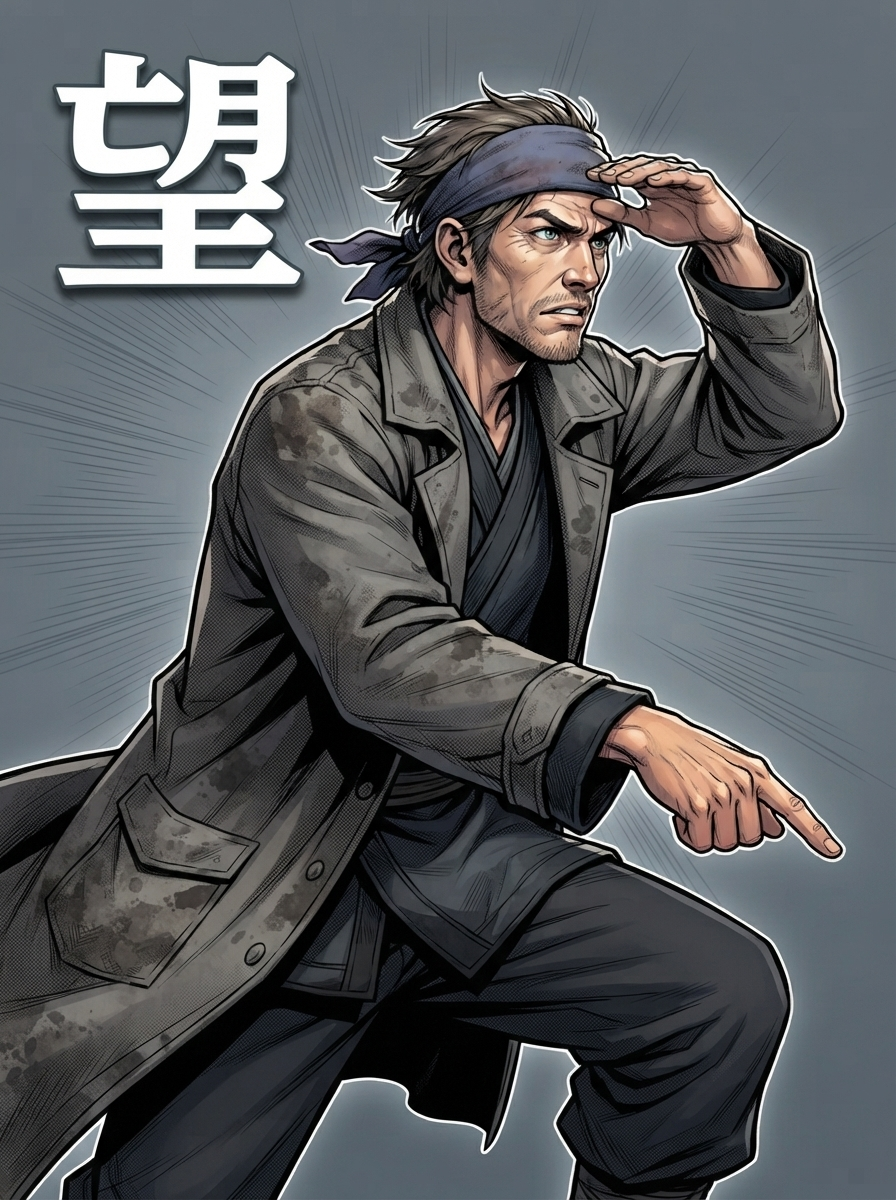
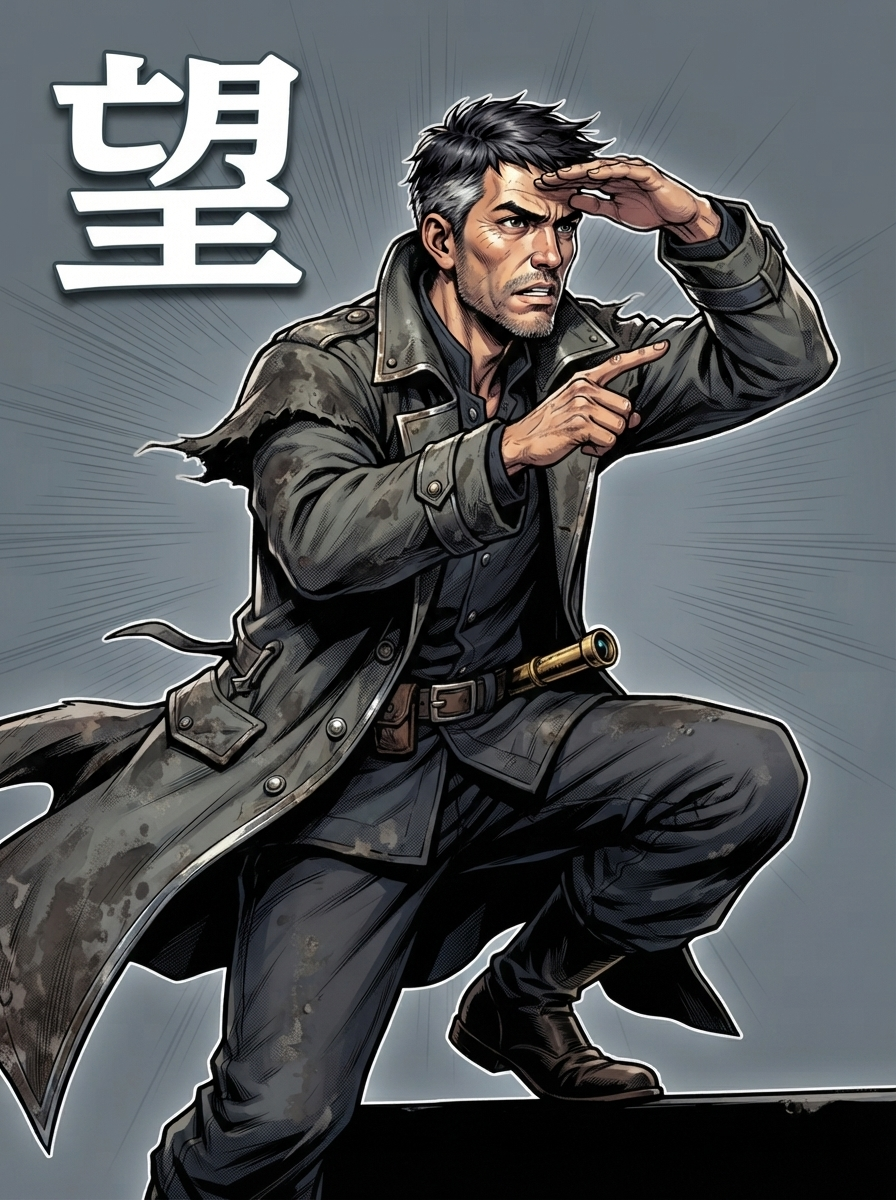
Retheme shi_lei and gu_chao tempest portraits
Align the blacksmith with sluice-welding on a cool iron palette, and
differentiate the dyke watchman from the fisherman (no headband, spyglass).

diff --git a/art/gen_portraits.py b/art/gen_portraits.py
@@ -161,12 +161,18 @@ knows an empty temple does not count.""",
     ),
     "shi_lei": dict(
         onom="砰", who="""\
-A powerfully built handsome Taiwanese blacksmith around forty — square jaw with short stubble, thick
-forearms, soot-smudged cheekbones, intense narrow eyes. Sparse with words; the village calls him 鐵雄.
-Heavy leather apron over a burnt-umber work shirt, dark iron-grey trim; a welding hammer or tongs in hand,
-ember highlights on metal.
-POSE: weight forward, one knee slightly bent as if bracing a gate, hammer raised mid-strike, other hand
-steadying an unseen sluice plate. EXPRESSION: grim focus — prayer will not hold a gate; steel will.""",
+A powerfully built handsome Taiwanese blacksmith around forty — square jaw with short dark stubble,
+thick forearms, soot-smudged cheekbones, intense narrow DARK eyes, SHORT BLACK hair (not brown, not dyed).
+Sparse with words; the village calls him 鐵雄.
+Heavy dark leather apron over a charcoal-umber work shirt (cool iron browns, NOT bright orange fabric);
+iron-grey trim. He is sealing a coastal sluice gate on a seawall before the typhoon surge — NOT posing
+at a glowing forge anvil.
+COLOUR restraint: keep the overall palette cool storm-iron (slate, soot, wet metal). Ember/weld sparks
+are a SMALL accent only — do not flood the background with hot orange.
+CRITICAL — HAND ANATOMY: exactly five fingers each, clear tool grips.
+POSE: weight forward bracing a heavy iron sluice plate; one hand slamming / welding with a short heavy
+hammer, the other steadying the gate with tongs or a gloved grip. Salt spray and wind on the coat.
+EXPRESSION: grim focus — prayer will not hold a gate; steel will.""",
     ),
     "fang_lan": dict(
         onom="令", who="""\
@@ -210,13 +216,16 @@ steady compassion — panic kills before the tide; she is moving people NOW.""",
     ),
     "gu_chao": dict(
         onom="望", who="""\
-A weathered handsome Taiwanese dyke watchman of forty-five — lean face, stubbled jaw, sharp far-seeing
-eyes, wind-cut hair under a faded cloth band. Everyone just calls him 阿德.
-Storm-grey canvas coat over charcoal work layers, salt-stained trim; one hand shielding his eyes toward
-the sea as if reading cloud walls.
-POSE: crouched slightly on an unseen seawall, torso twisted looking back inland while pointing seaward
-with the other hand — calling for the blacksmith. EXPRESSION: taut alertness — he cannot weld the gate,
-but he can outrun the wind to fetch the man who can.""",
+A weathered handsome Taiwanese dyke watchman of forty-five — lean face, stubbled jaw going grey at the
+sides, sharp far-seeing dark eyes, SHORT WIND-CUT DARK HAIR with salt-and-pepper at the temples.
+NO headband, NO hachimaki, NO forehead cloth — that look belongs to the younger fisherman; 阿德 goes bareheaded
+under the weather. Everyone just calls him 阿德.
+Long storm-grey rain-stained canvas coat over charcoal layers, salt crust on the shoulders; a short brass
+hand-telescope or spyglass clipped at his belt.
+CRITICAL — HAND ANATOMY: exactly five fingers each.
+POSE: crouched on an unseen seawall edge, one hand shielding his eyes toward the SEA (reading the cloud
+wall), the other pointing INLAND over his shoulder — shouting for the blacksmith. Wind tears at the coat.
+EXPRESSION: taut alertness — he cannot weld the gate, but he can outrun the wind to fetch the man who can.""",
     ),
 }
 

diff --git a/cast/build_editor.py b/cast/build_editor.py
@@ -70,7 +70,7 @@ ART_DEFAULTS = {
     "shen_xi": {"sect":"鎮廟","title":"金水伯","color":"#3d6b7a","robe":"#2a4a56","trim":"#1a3038",
                 "hair":"#3a342c","hat":"none","beard":"short","weapon":None,"acc":"beads",
                 "brow":"flat","mouth":"line","goal":"在鎮廟當眾做完海醮。空廟不算。"},
-    "shi_lei": {"sect":"鐵鋪","title":"鐵雄","color":"#b85a2a","robe":"#5a4035","trim":"#2a1f18",
+    "shi_lei": {"sect":"鐵鋪","title":"鐵雄","color":"#5a6570","robe":"#4a3a32","trim":"#1e1814",
                 "hair":"#1b1610","hat":"none","beard":"stub","weapon":"hammer",
                 "brow":"stern","mouth":"line","goal":"在海堤當眾焊死水閘。要有人作證。"},
     "fang_lan": {"sect":"村長宅","title":"美華姐","color":"#4a7a6a","robe":"#3d5c52","trim":"#243832",
